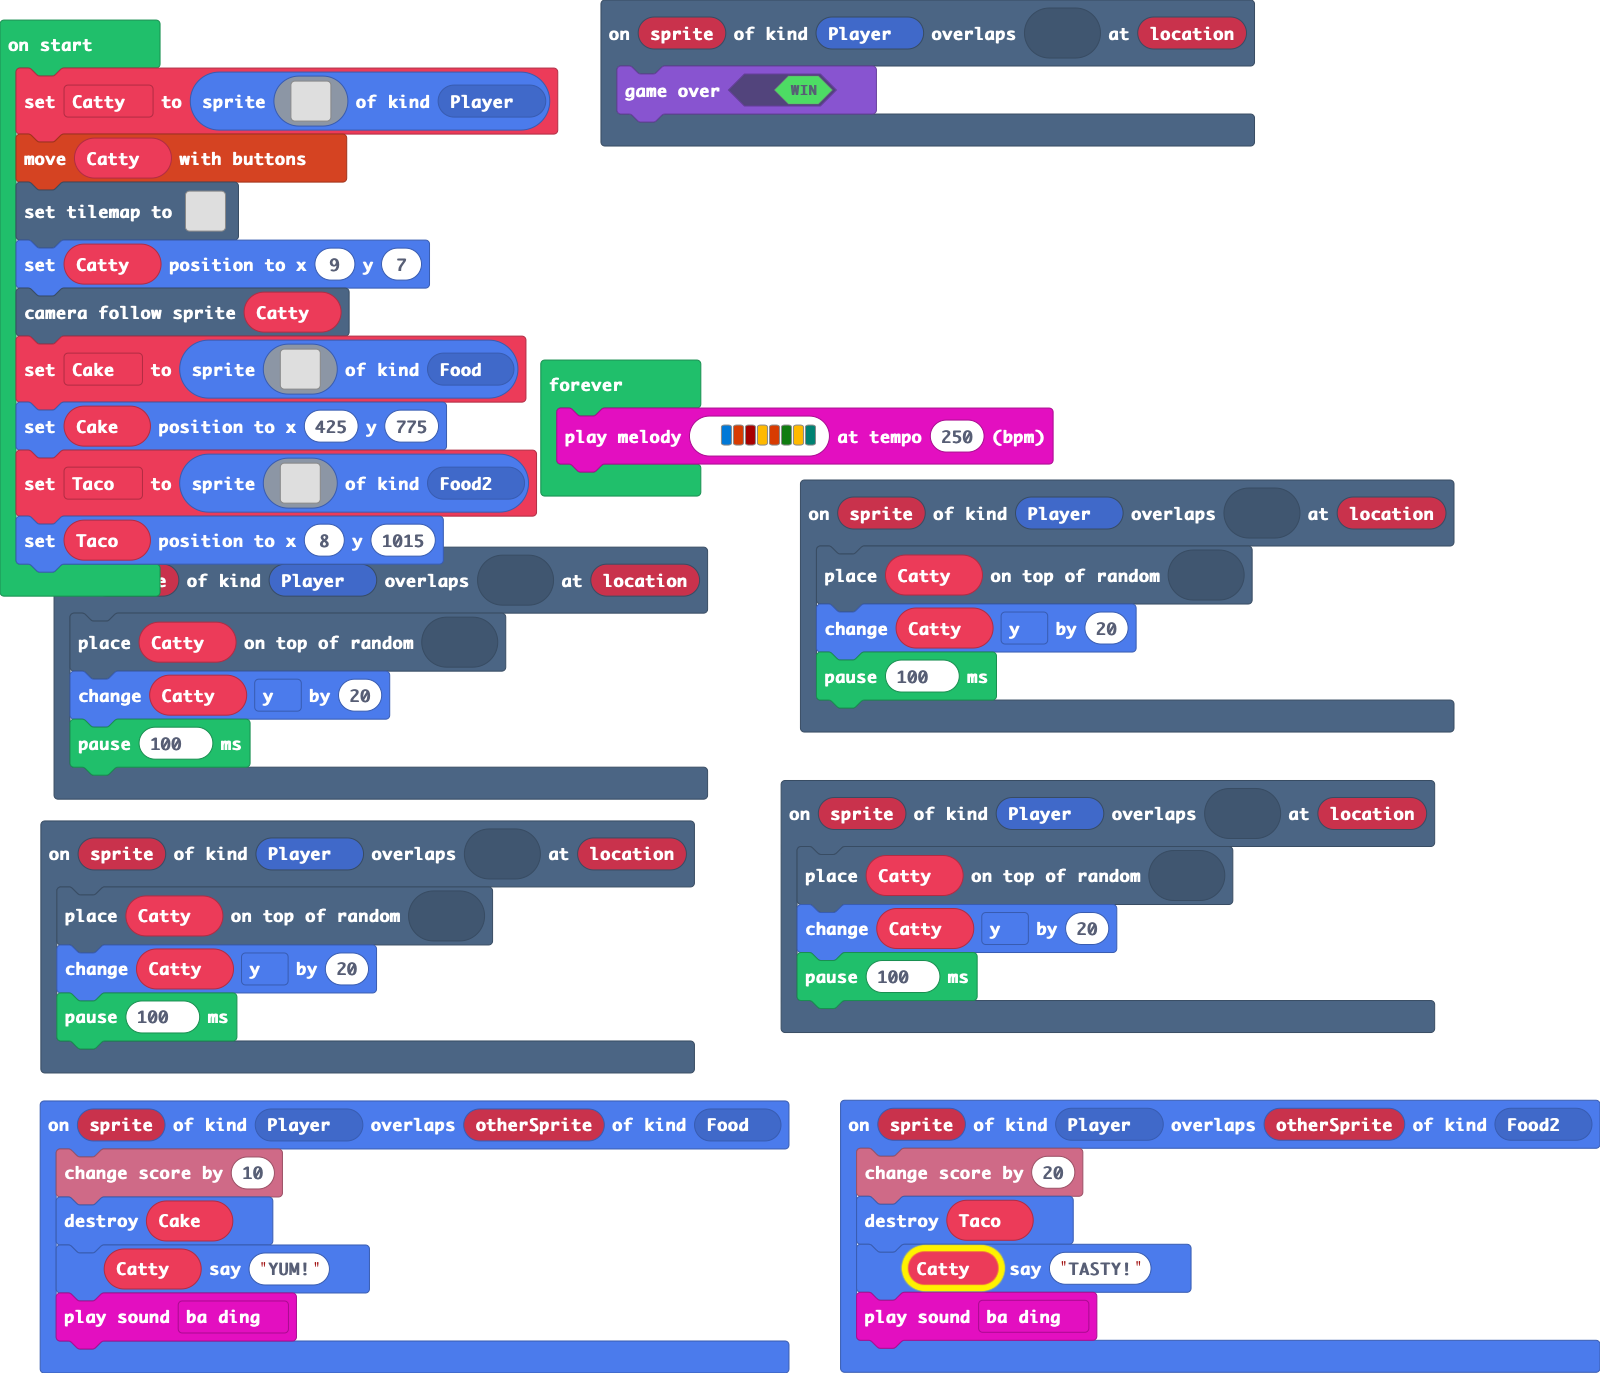
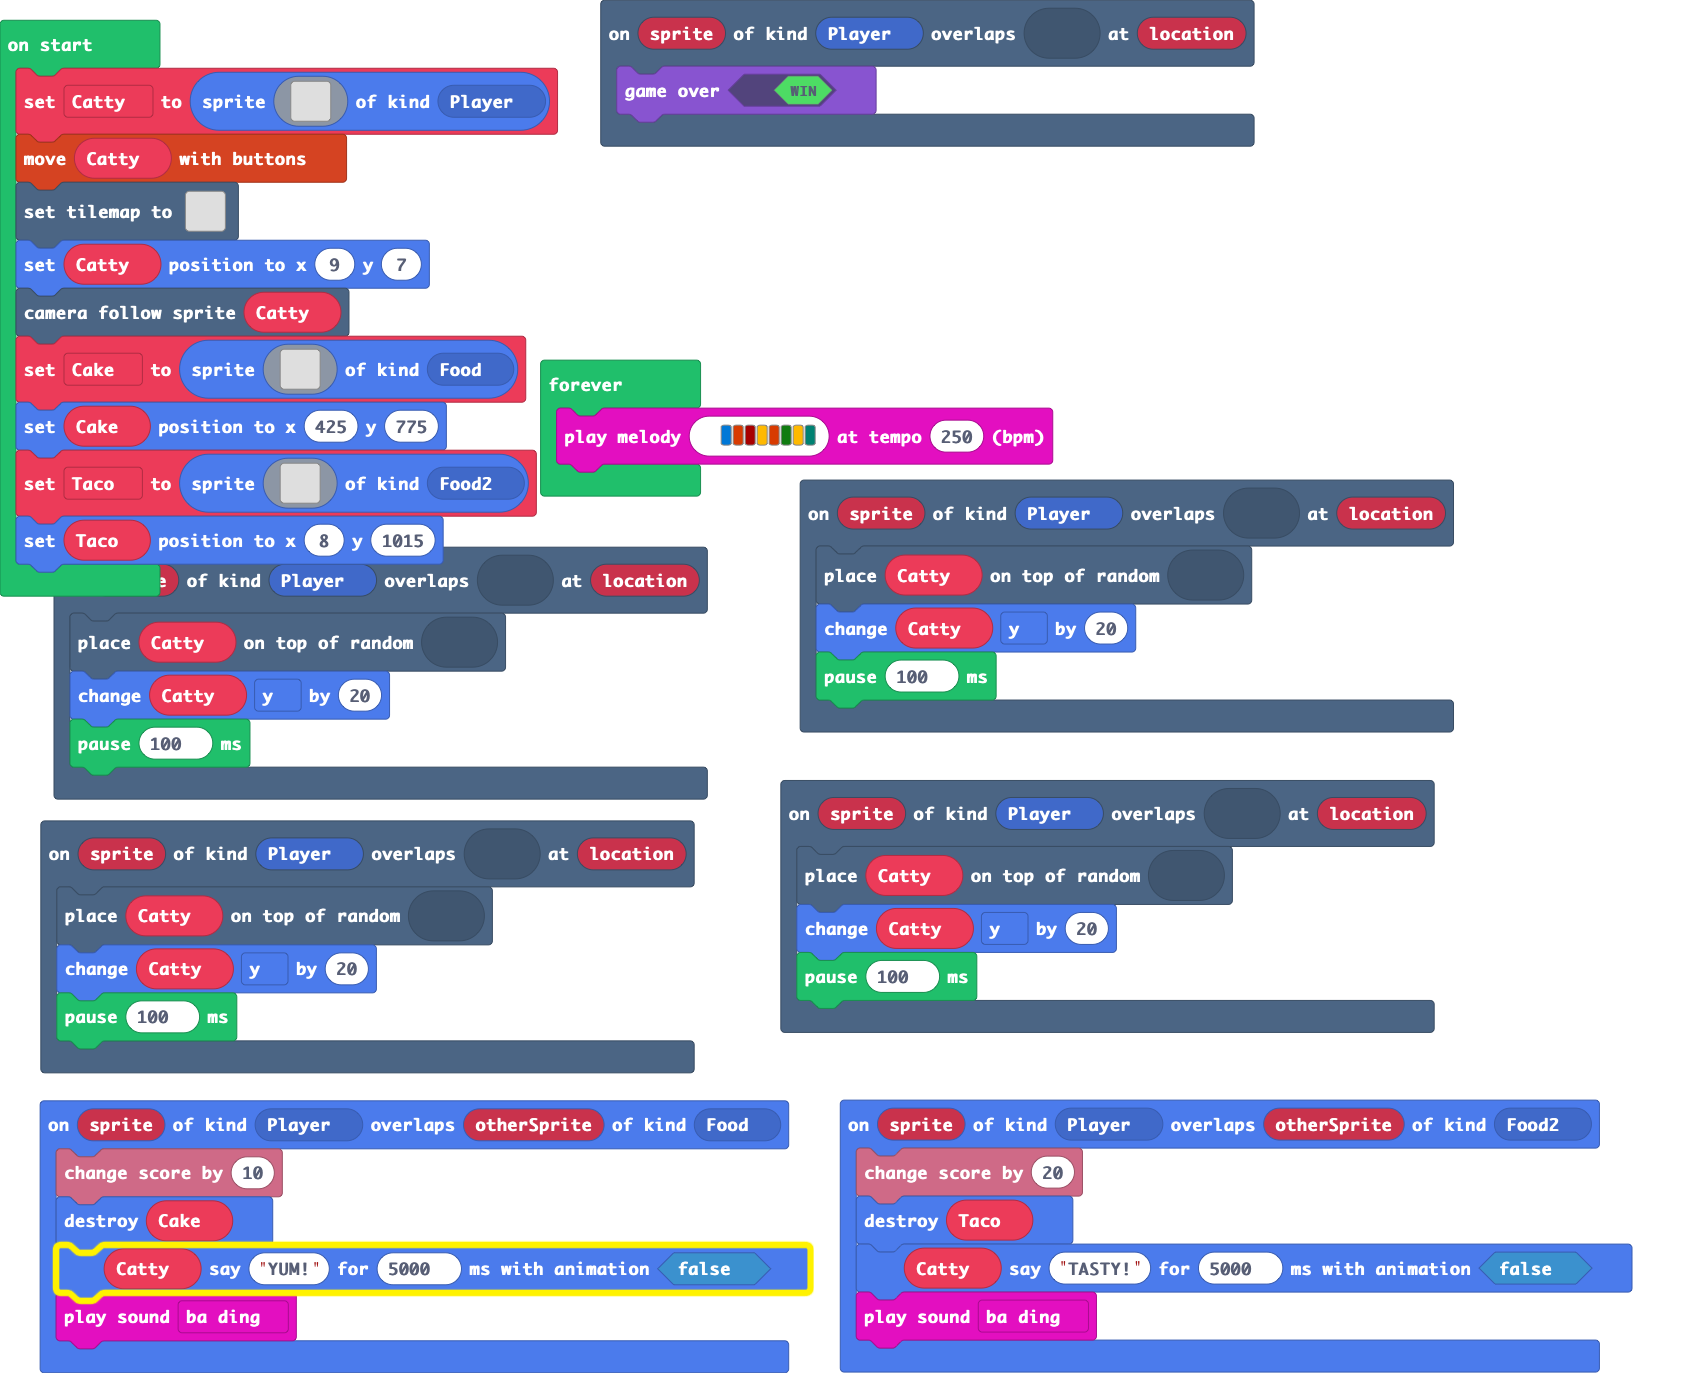
Update main.blocks, main.ts

diff --git a/main.ts b/main.ts
@@ -24,7 +24,7 @@ scene.onOverlapTile(SpriteKind.Player, sprites.dungeon.purpleOuterNorth2, functi
 sprites.onOverlap(SpriteKind.Player, SpriteKind.Food, function (sprite, otherSprite) {
     info.changeScoreBy(10)
     Cake.destroy()
-    Catty.sayText("YUM!")
+    Catty.sayText("YUM!", 5000, false)
     music.baDing.play()
 })
 scene.onOverlapTile(SpriteKind.Player, sprites.skillmap.islandTile4, function (sprite, location) {
@@ -33,7 +33,7 @@ scene.onOverlapTile(SpriteKind.Player, sprites.skillmap.islandTile4, function (s
 sprites.onOverlap(SpriteKind.Player, SpriteKind.Food2, function (sprite, otherSprite) {
     info.changeScoreBy(20)
     Taco.destroy()
-    Catty.sayText("TASTY!")
+    Catty.sayText("TASTY!", 5000, false)
     music.baDing.play()
 })
 let Taco: Sprite = null
